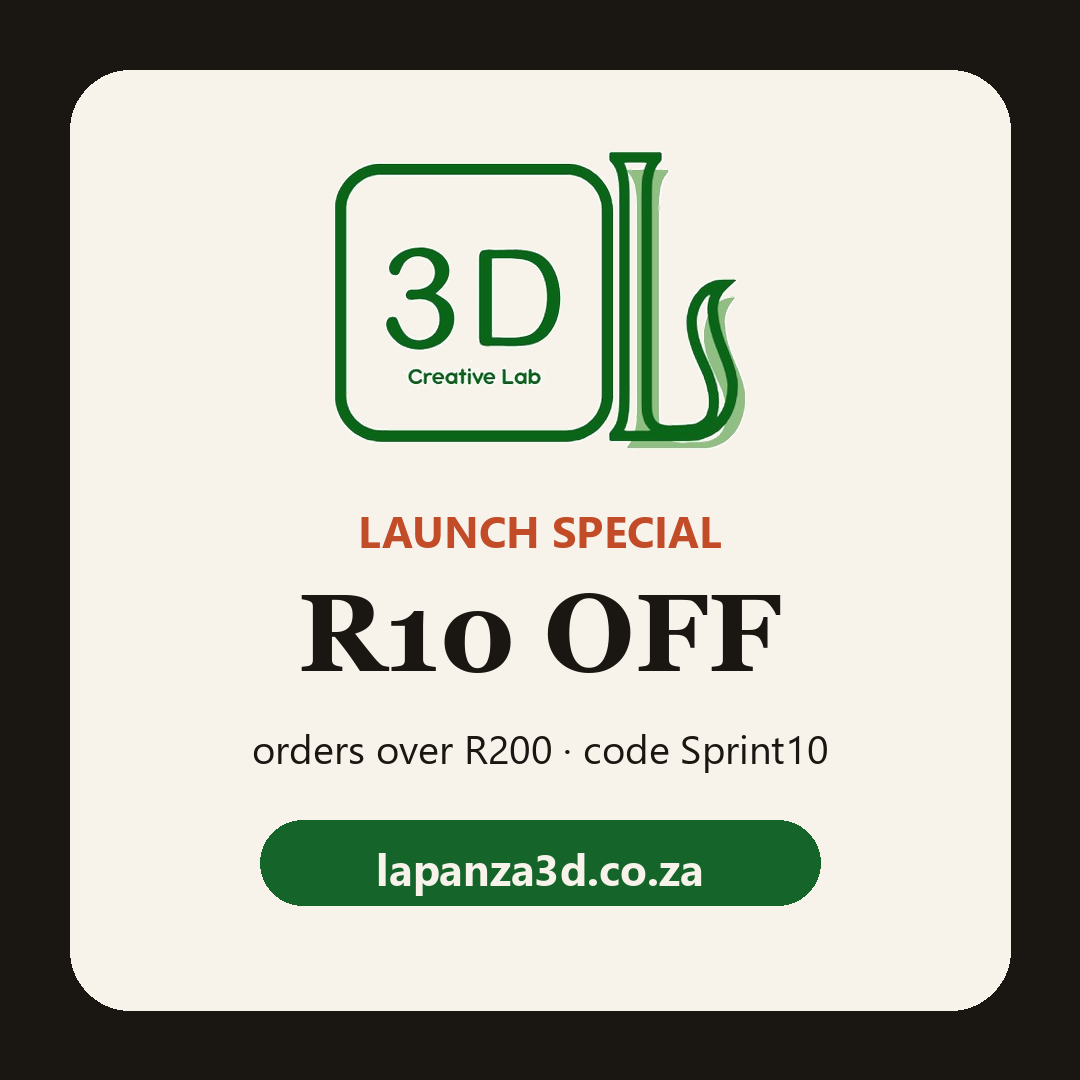
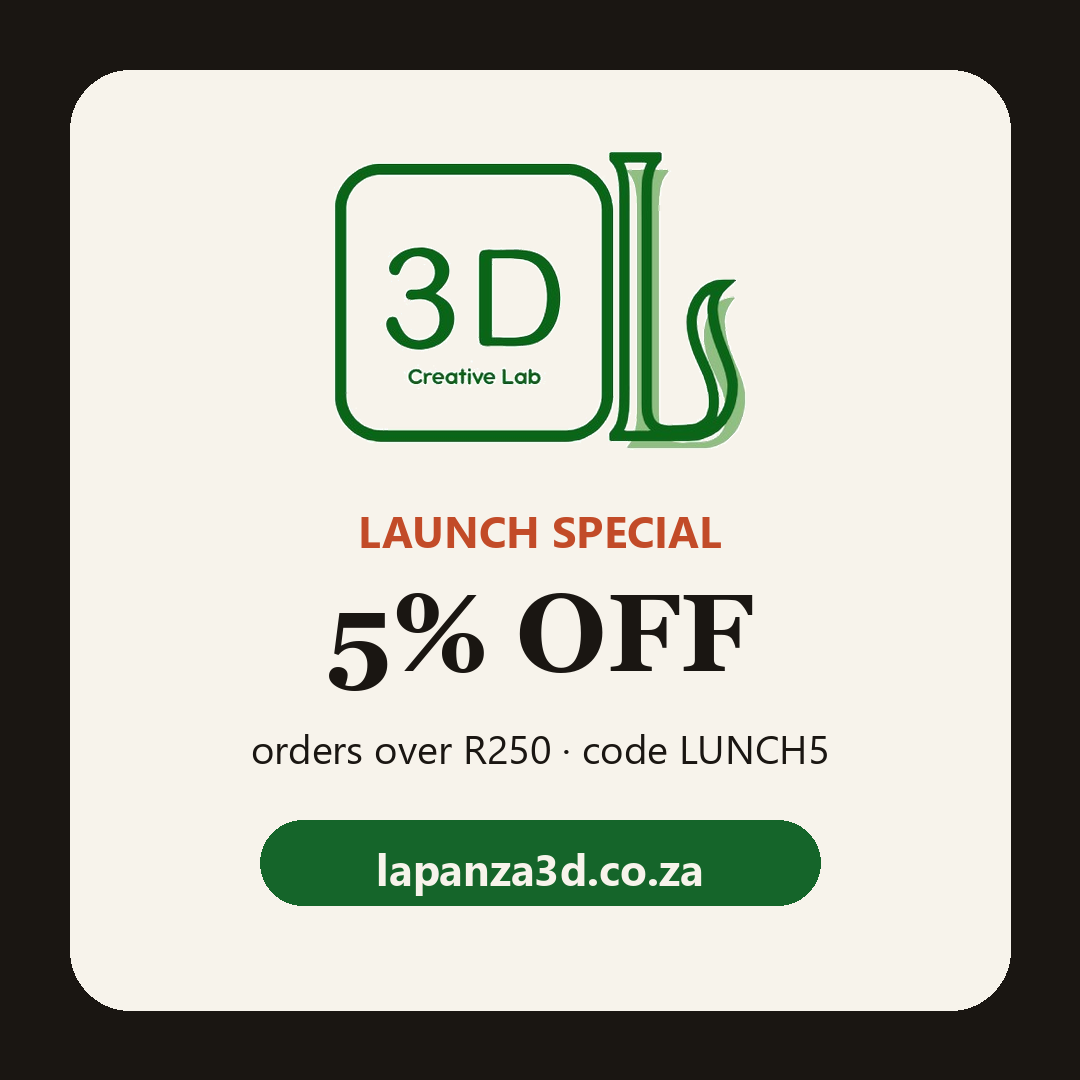
feat: TikTok profile link restored + launch kit switched to LUNCH5
Owner-confirmed TikTok profile (@jbarkhuizen) back on Get in Touch's
Follow Along row. Launch graphics and captions now carry the new LUNCH5
code (5% off over R250, no expiry — created and live-verified on prod);
Sprint10 remains valid until 6 Sep.

diff --git a/get-in-touch.html b/get-in-touch.html
@@ -95,9 +95,9 @@
             <a href="https://www.instagram.com/lapanza_beauty_lifestyle/" target="_blank" rel="noopener noreferrer" aria-label="Lapanza 3D on Instagram" class="text-espresso/70 hover:text-terracotta transition-colors">
               <svg width="22" height="22" viewBox="0 0 24 24" fill="currentColor" aria-hidden="true"><path d="M12 2c2.72 0 3.06.01 4.12.06 1.06.05 1.79.22 2.43.47.66.26 1.21.6 1.76 1.15.5.5.9 1.1 1.15 1.76.25.64.42 1.37.47 2.43.05 1.06.06 1.4.06 4.12s-.01 3.06-.06 4.12c-.05 1.06-.22 1.79-.47 2.43a4.9 4.9 0 0 1-1.15 1.76 4.9 4.9 0 0 1-1.76 1.15c-.64.25-1.37.42-2.43.47-1.06.05-1.4.06-4.12.06s-3.06-.01-4.12-.06c-1.06-.05-1.79-.22-2.43-.47a4.9 4.9 0 0 1-1.76-1.15 4.9 4.9 0 0 1-1.15-1.76c-.25-.64-.42-1.37-.47-2.43C2.01 15.06 2 14.72 2 12s.01-3.06.06-4.12c.05-1.06.22-1.79.47-2.43.26-.66.6-1.21 1.15-1.76A4.9 4.9 0 0 1 5.44.53C6.08.28 6.81.11 7.87.06 8.93.01 9.27 0 12 0zm0 5a5 5 0 1 0 0 10 5 5 0 0 0 0-10zm0 8.25a3.25 3.25 0 1 1 0-6.5 3.25 3.25 0 0 1 0 6.5zm5.2-8.44a1.17 1.17 0 1 0 0-2.33 1.17 1.17 0 0 0 0 2.33z"/></svg>
             </a>
-            <!-- TikTok icon removed 2026-08-31: the previous href pointed at a
-                 third party's video, not a Lapanza account. Re-add once the
-                 real Lapanza TikTok profile URL is confirmed by the owner. -->
+            <a href="https://www.tiktok.com/@jbarkhuizen" target="_blank" rel="noopener noreferrer" aria-label="Lapanza 3D on TikTok" class="text-espresso/70 hover:text-terracotta transition-colors">
+              <svg width="22" height="22" viewBox="0 0 24 24" fill="currentColor" aria-hidden="true"><path d="M19.59 6.69a4.83 4.83 0 0 1-3.77-4.25V2h-3.45v13.67a2.89 2.89 0 0 1-5.2 1.74 2.89 2.89 0 0 1 2.31-4.64c.3 0 .58.05.85.13V9.4a6.33 6.33 0 0 0-.85-.05A6.34 6.34 0 0 0 5 20.1a6.34 6.34 0 0 0 10.86-4.43v-7a8.16 8.16 0 0 0 4.77 1.52v-3.4a4.85 4.85 0 0 1-1.04-.1z"/></svg>
+            </a>
           </div>
       </div>
 

diff --git a/docs/marketing/LAUNCH-KIT.md b/docs/marketing/LAUNCH-KIT.md
@@ -6,11 +6,10 @@ Three graphics live in this folder:
 |------|-----|
 | `launch-square-1080.png` | Facebook post, Instagram feed post, TikTok photo post |
 | `launch-story-1080x1920.png` | WhatsApp Status, Instagram/Facebook Stories, TikTok background |
-| `launch-promo-1080.png` | Follow-up post pushing the Sprint10 code |
+| `launch-promo-1080.png` | Follow-up post pushing the LUNCH5 code |
 
-> **Before posting:** Sprint10 expires **6 Sep** and is set to R10 off / min R200.
-> For a launch push, consider extending the expiry (Admin → Promo codes → Edit)
-> or creating a fresh code like `LAUNCH10` so the posts stay valid longer.
+> Launch code: **LUNCH5** — 5% off orders over R250, no expiry (live and verified).
+> (Sprint10 — R10 off over R200 — also still works until 6 Sep.)
 
 ---
 
@@ -29,7 +28,7 @@ Three graphics live in this folder:
 > 🧸 Toys, Home & School items
 > 🧵 SA-made 3D printer filament, from stock
 >
-> Launch special: *R10 off* orders over R200 with code *Sprint10* 🎉
+> Launch special: *5% off* orders over R250 with code *LUNCH5* 🎉
 >
 > Family-run, printed right here in Pierre van Ryneveld, Centurion. Have a look and tell us what you think!
 
@@ -46,7 +45,7 @@ Tips: send via Broadcast List (Contacts must have your number saved) rather than
 > 🧸 Toys, Home & School gear, printed to order in your colours
 > 🧵 South African–made filament for fellow makers — 12+ rolls gets you 5% off automatically
 >
-> 🎁 Launch special: R10 off orders over R200 — code **Sprint10** at checkout.
+> 🎁 Launch special: 5% off orders over R250 — code **LUNCH5** at checkout.
 >
 > 👉 https://lapanza3d.co.za
 > 📍 Pierre van Ryneveld, Centurion — collection or courier nationwide.
@@ -65,7 +64,7 @@ Note: pasting the link anywhere on Facebook now auto-shows the branded preview c
 >
 > Custom 3D prints · GWM & Land Rover parts · toys · home & school · SA-made filament. Upload your file, pick your colour, we print it in Centurion.
 >
-> R10 off over R200 with code Sprint10 🎁 Link in bio.
+> 5% off over R250 with code LUNCH5 🎁 Link in bio.
 >
 > #3dprinting #3dprintingsouthafrica #southafrica #centurion #pretoria #gwm #landrover #filament #supportlocalza #madeinsouthafrica #3dprinted #smallbusinesssa
 
@@ -85,13 +84,13 @@ Static images underperform on TikTok — the winning format is a **15–30s work
 
 > POV: your car part is discontinued… so we print it 🖨🇿🇦 Full store now live — lapanza3d.co.za (link in bio) #3dprinting #3dprintingtiktok #southafricantiktok #gwm #landrover #fyp #smallbusiness #centurion
 
-**Setup:** create/confirm the business account (the old profile link was wrong and removed from the site — send me the correct URL once it exists and I'll add it back to Get in Touch) · website in bio · reply to every comment in the first hour.
+**Setup:** profile https://www.tiktok.com/@jbarkhuizen (now linked from the site's Get in Touch page) · website in bio · reply to every comment in the first hour.
 
 ## Posting order & rhythm
 
 1. **Day 1 (today):** WhatsApp Status + broadcast → Facebook post (pin it) → Instagram feed + Story
 2. **Day 2–3:** TikTok video #1 · share the FB post into 2–3 local groups
-3. **Day 4–7:** the `launch-promo-1080.png` post on FB/IG ("last days" framing if Sprint10 keeps the 6 Sep expiry)
+3. **Day 4–7:** the `launch-promo-1080.png` post on FB/IG pushing LUNCH5
 4. **Ongoing:** every finished customer job = one photo/time-lapse = one post. The site's product photos are your content pipeline.
 
 Watch results in **Admin → Analytics** (visitors/referrers) and the **Shopping Funnel** table — you'll see which platform actually sends buyers.
